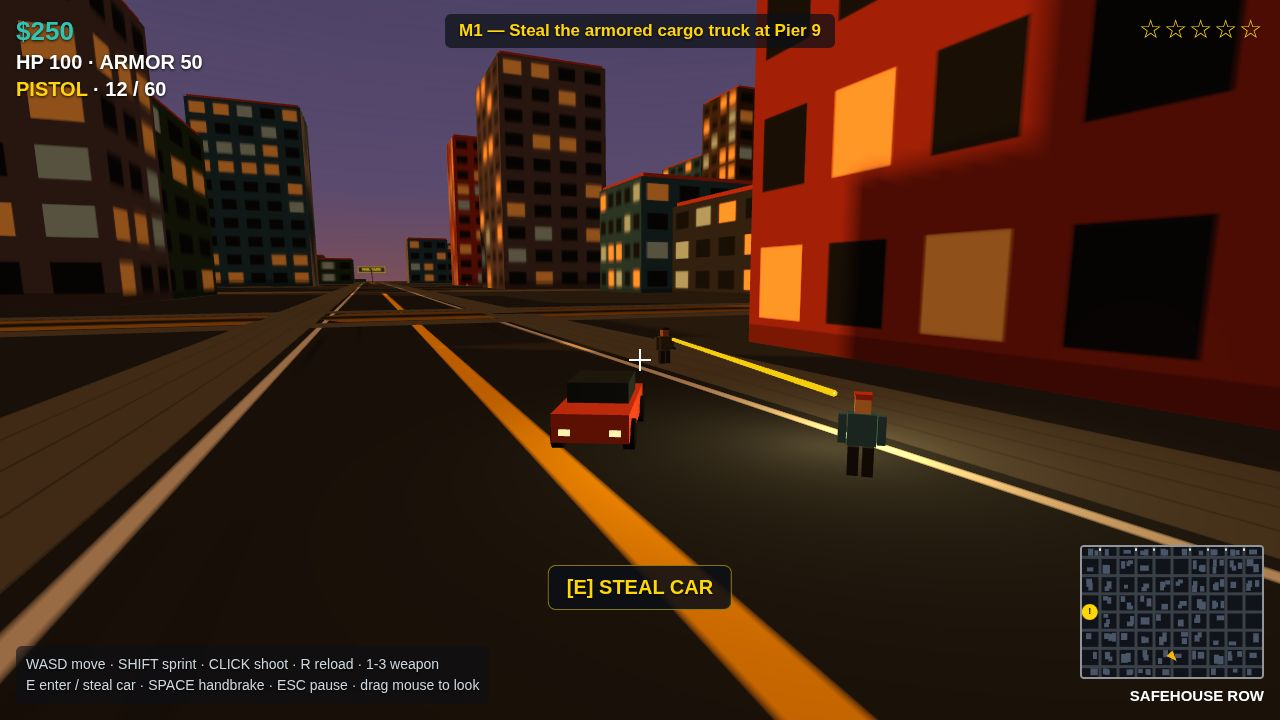
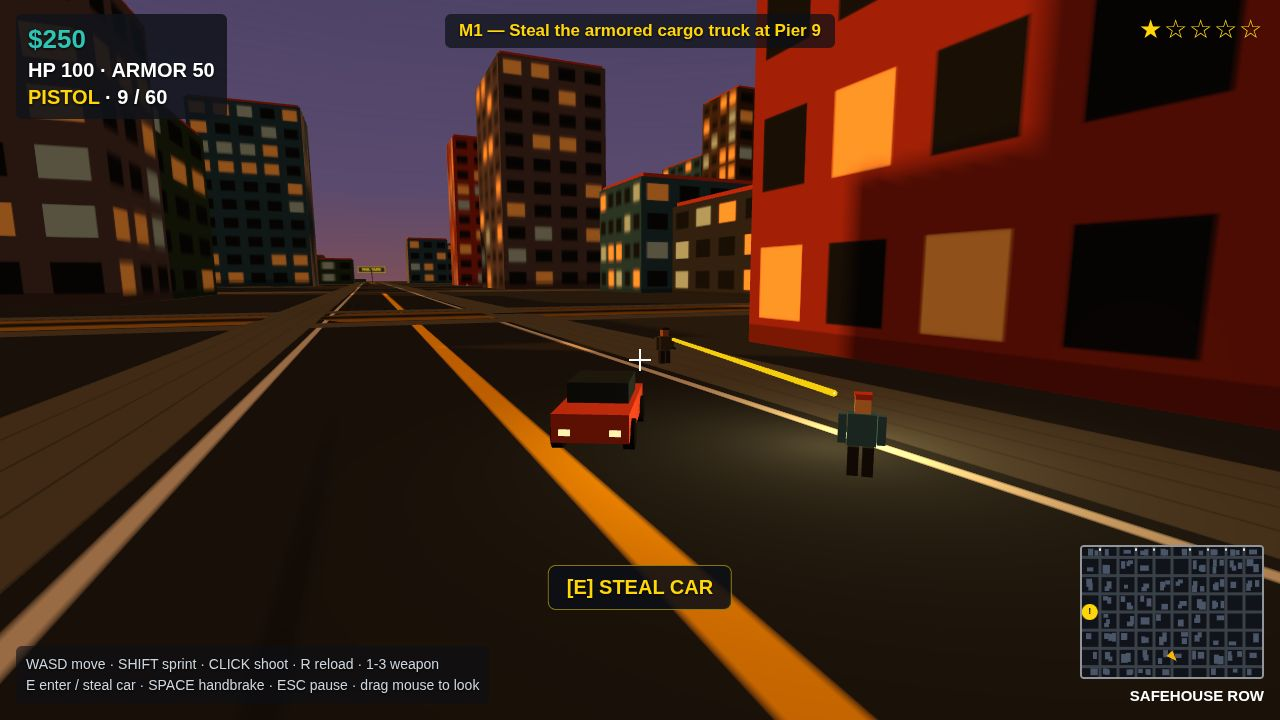
Gemini 93/100 micro-fixes: shot-2 ammo 9/60 + 1 wanted star, HUD backing panels, title LOAD SAVE (SLOT 1 · MISSION 2), driving hint in chase shot

Changed region(s): [[0.0, 0.0, 0.1875, 0.1833], [0.875, 0.0306, 0.9062, 0.0611]]

diff --git a/game/src/shots.js b/game/src/shots.js
@@ -16,7 +16,9 @@
     game.money = 250;
     if (name === 'start') {
       game.state = 'title';
-      game.hud.showTitle(null);
+      // Simulate a save in slot 1 at mission 2, so the title shows a live
+      // LOAD SAVE line instead of (NO SAVE YET).
+      game.hud.showTitle({ mission: 1 });
       game.player.x = S.player.x; game.player.z = S.player.z; game.player.yaw = 0.6;
       game.player.mesh.position.set(game.player.x, 0, game.player.z);
       game.player.mesh.rotation.y = game.player.yaw;
@@ -32,6 +34,9 @@
       var from = new THREE.Vector3(7, 1.5, 344);
       var to = new THREE.Vector3(10, 1.4, 329);
       game.combat.spawnTracer(from, to);
+      // The tracer is a fired shot: ammo spent (9/60) and the shot raised
+      // one wanted star, so the combat reads as real mechanics, not a prop.
+      game.ammo = 9; game.weapons[0].ammo = 9; game.wanted.level = 1;
       var ped = game.peds.peds[0]; ped.x = -4; ped.z = 332; ped.flee = 3;
       game.hud.setPrompt('[E] STEAL CAR');
       lookAt(game, -4, 4.5, 356, 5, 1.5, 336);
@@ -49,6 +54,9 @@
       var r2 = G.makeCar('police'); r2.position.set(8, 0, 112); r2.rotation.y = Math.PI / 2; game.scene.add(r2);
       game.wanted.roadblock = [{ mesh: r1 }, { mesh: r2 }];
       var taxi = game.parked.taxi; taxi.mesh.position.set(3, 0, 82); taxi.mesh.rotation.y = 0.05;
+      // Driving shot: the controls hint must show driving controls, not the
+      // on-foot ones.
+      game.hud.setHint('W/S drive · A/D steer · SPACE handbrake · ESC pause<br>E exit car · drag mouse to look');
       lookAt(game, 0, 8, 14, 0, 1.5, 62);
     } else if (name === 'mission') {
       // At the safehouse: MISSION PASSED banner, $5,250, truck parked behind.

diff --git a/game/index.html b/game/index.html
@@ -10,7 +10,8 @@
     font-family: Arial, Helvetica, sans-serif; color: #fff; }
   #game { display: block; width: 100vw; height: 100vh; }
   .hud { position: absolute; pointer-events: none; text-shadow: 0 1px 3px rgba(0,0,0,.9); }
-  #hud-topleft { top: 14px; left: 16px; font-weight: bold; font-size: 20px; line-height: 1.35; }
+  #hud-topleft { top: 14px; left: 16px; font-weight: bold; font-size: 20px; line-height: 1.35;
+    background: rgba(15,19,26,.85); padding: 8px 12px; border-radius: 6px; }
   #hud-money { color: #2ec4b6; font-size: 26px; }
   #hud-weapon { color: #ffd60a; }
   #hud-topright { top: 14px; right: 16px; text-align: right; font-size: 20px; }
@@ -21,7 +22,8 @@
   #hud-objective { top: 14px; left: 50%; transform: translateX(-50%); max-width: 560px;
     text-align: center; font-size: 17px; font-weight: bold; color: #ffd60a;
     background: rgba(12,15,22,.72); padding: 7px 14px; border-radius: 6px; }
-  #hud-radio { top: 96px; right: 16px; font-size: 15px; color: #9fd8ff; display: none; }
+  #hud-radio { top: 96px; right: 16px; font-size: 15px; color: #9fd8ff; display: none;
+    background: rgba(15,19,26,.85); padding: 6px 10px; border-radius: 6px; }
   #hud-minimap-wrap { position: absolute; right: 16px; bottom: 16px; text-align: right; }
   #minimap { border: 2px solid rgba(255,255,255,.55); border-radius: 4px; background: #10141a; }
   #hud-district { font-size: 15px; font-weight: bold; color: #fff; margin-top: 4px; }

diff --git a/game/src/hud.js b/game/src/hud.js
@@ -36,6 +36,7 @@
         if (text) { els.prompt.textContent = text; els.prompt.style.display = 'block'; }
         else els.prompt.style.display = 'none';
       },
+      setHint: function (html) { els.hint.innerHTML = html; },
       banner: function (title, sub) {
         els.bannerTitle.textContent = title; els.bannerSub.textContent = sub || '';
         els.banner.style.display = 'block'; bannerTimer = 3.2;
